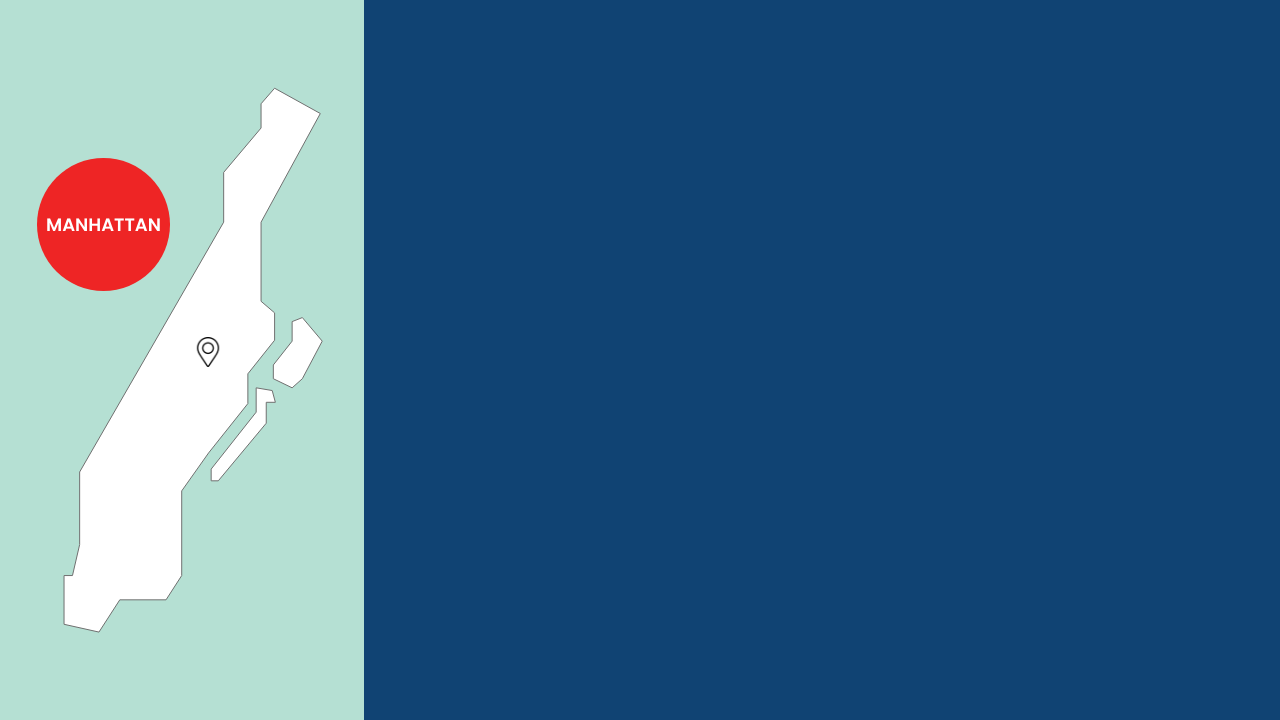
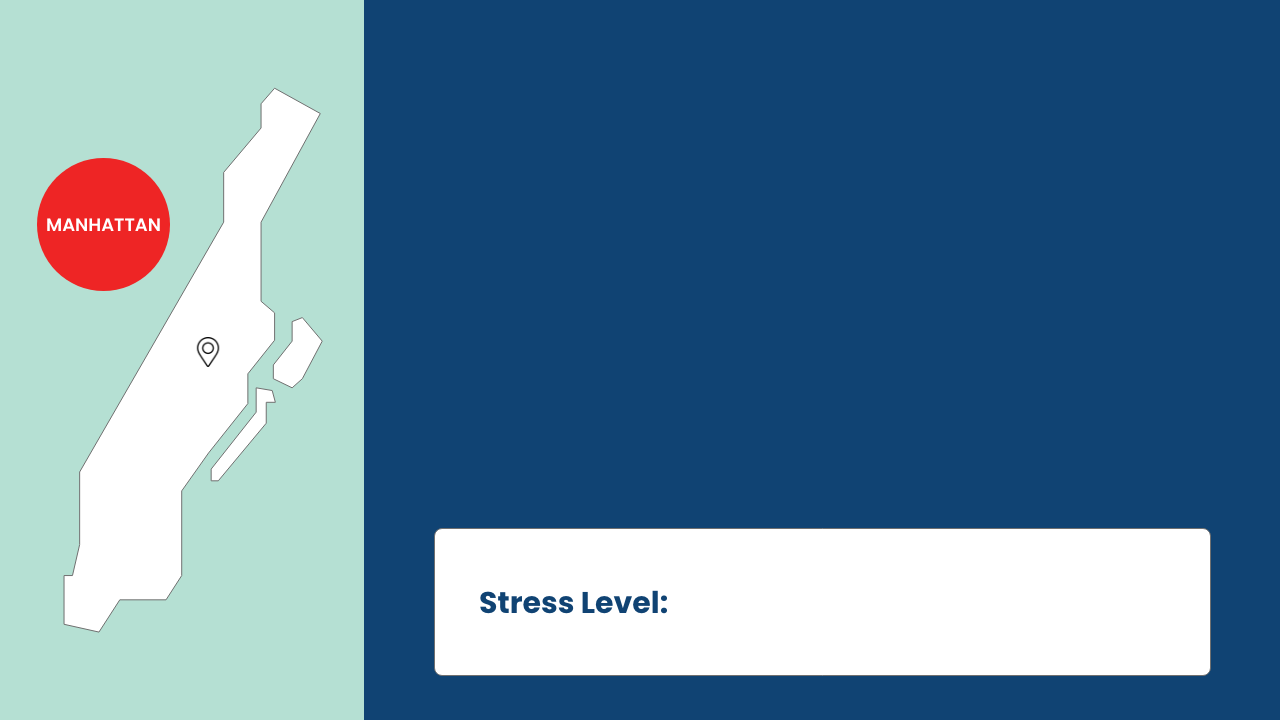
Scorecard

Changed region(s): [[0.3125, 0.7333, 0.9688, 0.9472]]

diff --git a/sketch.js b/sketch.js
@@ -43,6 +43,11 @@ const cl_TenB = 17;
 const cl_TwelveA = 18;
 const cl_TwelveB = 19;
 
+// Stress symbol for scorecard
+var stressSymbol;   // stress symbol
+var maxStress = 5;
+
+var stressCard;
 
 // room indices - look at adventureManager
 const one = 3;
@@ -65,8 +70,13 @@ let bodyFont;
 // Allocate Adventure Manager with states table and interaction tables
 function preload() {
 
+  // loading font
   headlineFont = loadFont('fonts/Poppins-Bold.ttf');
   bodyFont = loadFont('fonts/Poppins-Regular.ttf');
+
+  // loading images
+  stressSymbol = loadImage("assets/Stress.png");
+  stressCard = loadImage("assets/stresscard.png")
   
   clickablesManager = new ClickableManager('data/clickableLayout.csv');
   adventureManager = new AdventureManager('data/adventureStates.csv', 'data/interactionTable.csv', 'data/clickableLayout.csv');
@@ -178,80 +188,134 @@ clickableButtonPressed = function() {
 
 cl_OneA_Pressed = function() {
    // add scores, etc.
-
+   stressCard.addStress(1);
    adventureManager.clickablePressed(this.name);
 }
 cl_OneB_Pressed = function() {
-
+   addStress(1);
    adventureManager.clickablePressed(this.name);
 }
 cl_OneC_Pressed = function() {
-
+   addStress(1);
    adventureManager.clickablePressed(this.name);
 }
 cl_TwoA_Pressed = function() {
-
+   addStress(1);
    adventureManager.clickablePressed(this.name);
 }
 cl_TwoB_Pressed = function() {
-
+   addStress(1);
    adventureManager.clickablePressed(this.name);
 }
 cl_TwoC_Pressed = function() {
-
+   addStress(1);
    adventureManager.clickablePressed(this.name);
 }
 cl_ThreeA_Pressed = function() {
-
+   addStress(1);
    adventureManager.clickablePressed(this.name);
 }
 cl_ThreeB_Pressed = function() {
-
+   addStress(1);
    adventureManager.clickablePressed(this.name);
 }
 cl_SixA_Pressed = function() {
-
+   addStress(1);
    adventureManager.clickablePressed(this.name);
 }
 cl_SixB_Pressed = function() {
-
+   addStress(1);
    adventureManager.clickablePressed(this.name);
 }
 cl_SixC_Pressed = function() {
-
+   addStress(1);
    adventureManager.clickablePressed(this.name);
 }
 cl_SevenA_Pressed = function() {
-
+   addStress(1);
    adventureManager.clickablePressed(this.name);
 }
 cl_SevenB_Pressed = function() {
-
+   addStress(1);
    adventureManager.clickablePressed(this.name);
 }
 cl_NineA_Pressed = function() {
-
+   addStress(1);
    adventureManager.clickablePressed(this.name);
 }
 cl_NineB_Pressed = function() {
-
+   addStress(1);
    adventureManager.clickablePressed(this.name);
 }
 cl_TenA_Pressed = function() {
-
+   addStress(1);
    adventureManager.clickablePressed(this.name);
 }
 cl_TenB_Pressed = function() {
-
+   addStress(1);
    adventureManager.clickablePressed(this.name);
 }
 cl_TwelveA_Pressed = function() {
-
+   addStress(1);
    adventureManager.clickablePressed(this.name);
 }
 cl_TwelveB_Pressed = function() {
-
+   addStress(1);
    adventureManager.clickablePressed(this.name);
+}
+
+//-------------- STRESS CARD --------//
+
+class scoreCard {
+  constructor () {
+    this.image = loadImage("assets/stresscard.png")
+    this.x = width/2;
+    this.y = width/2;
+  }
+
+  setup(img, x, y) {
+    this.image = img;
+    this.x = x;
+    this.y = y;
+    this.stress = 0;
+  }
+
+  draw(){
+    if( this.image ) {
+      push();
+      // draw stress space
+      imageMode(CENTER);
+      image( this.image, this.x, this.y );
+
+      // draw stress symbol
+      for( let i = 0; i , this.stress; i++ ){
+        image(stressSymbol, this.x + 70 + (i*40), this.y + 10)
+      }
+
+      pop();
+    }
+  }
+
+  getStress() {
+    return this.stress;
+  }
+
+  // add, check for max overflow
+  addStress(amt) {
+    this.stress += amt;
+    if( this.stress > maxStress ) {
+      this.stress = maxStress;
+    }
+
+  }
+
+  // sub, check for below zero
+  subStress(amt) {
+    this.stress -= amt;
+    if( this.stress < 0 ) {
+      this.stress = 0;
+    }
+  }
 }
 
 

diff --git a/index.html b/index.html
@@ -3,7 +3,7 @@
   <head>
     <meta charset="utf-8">
     <meta name="viewport" content="width=device-width, initial-scale=1.0">
-    <title>Farm to Tunnel to Table</title>
+    <title>OneWay</title>
     <style> body {padding: 0; margin: 0;} </style>
     <script src="p5.js"></script>
     <script src="p5.2DAdventure.js"></script>
